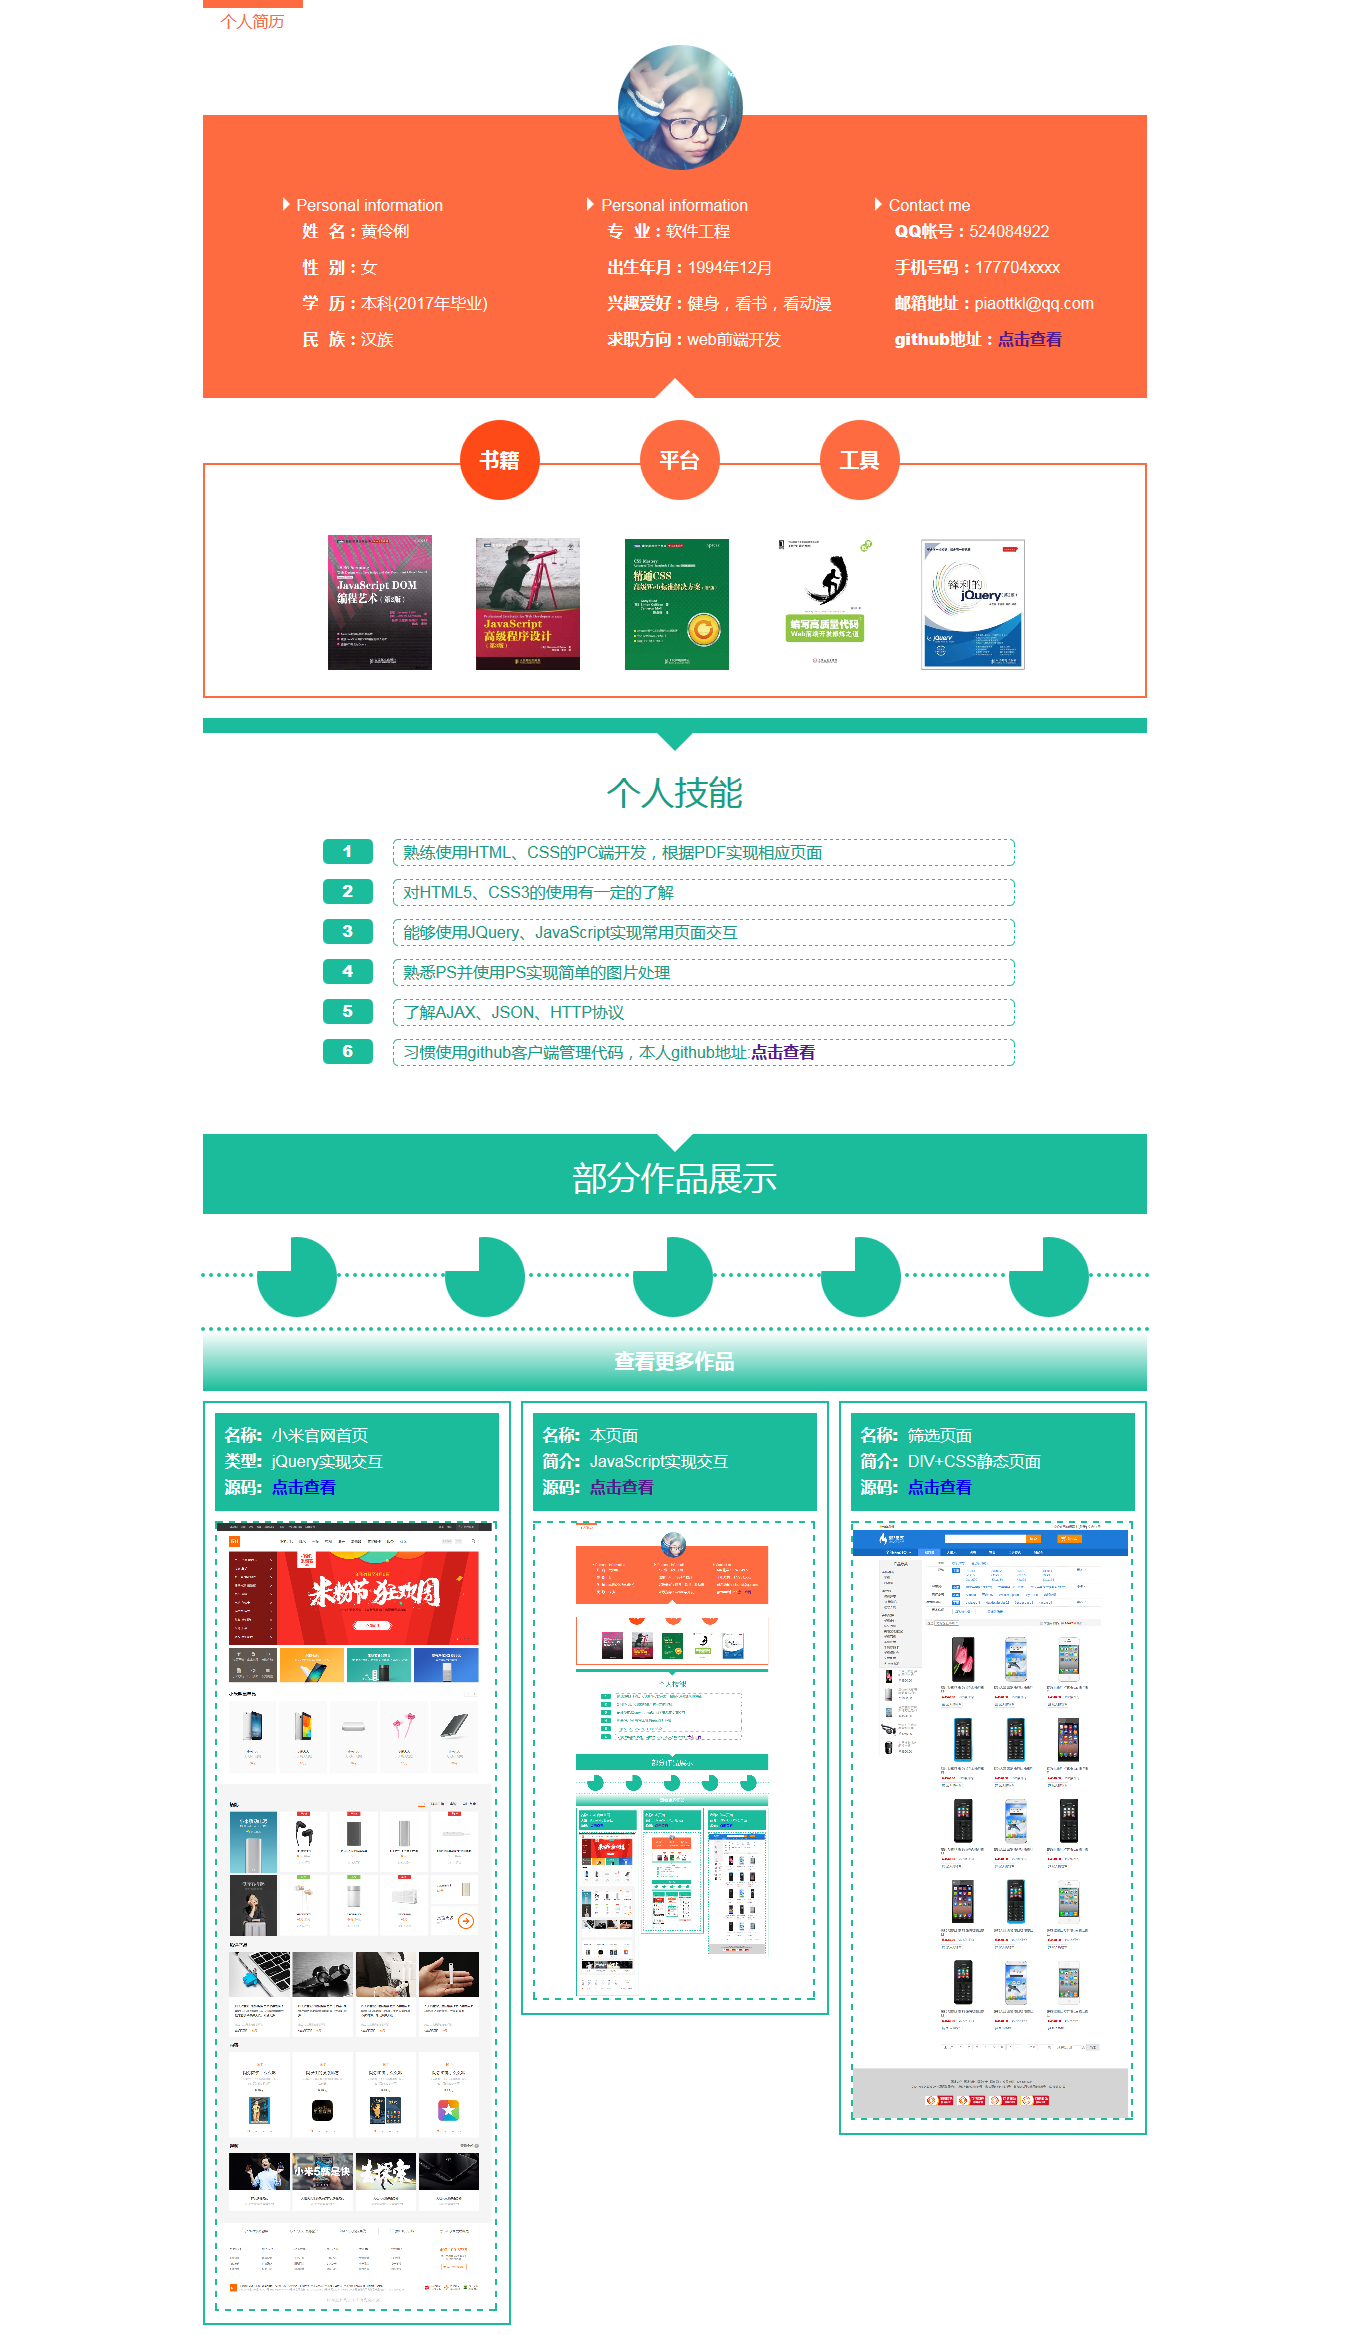
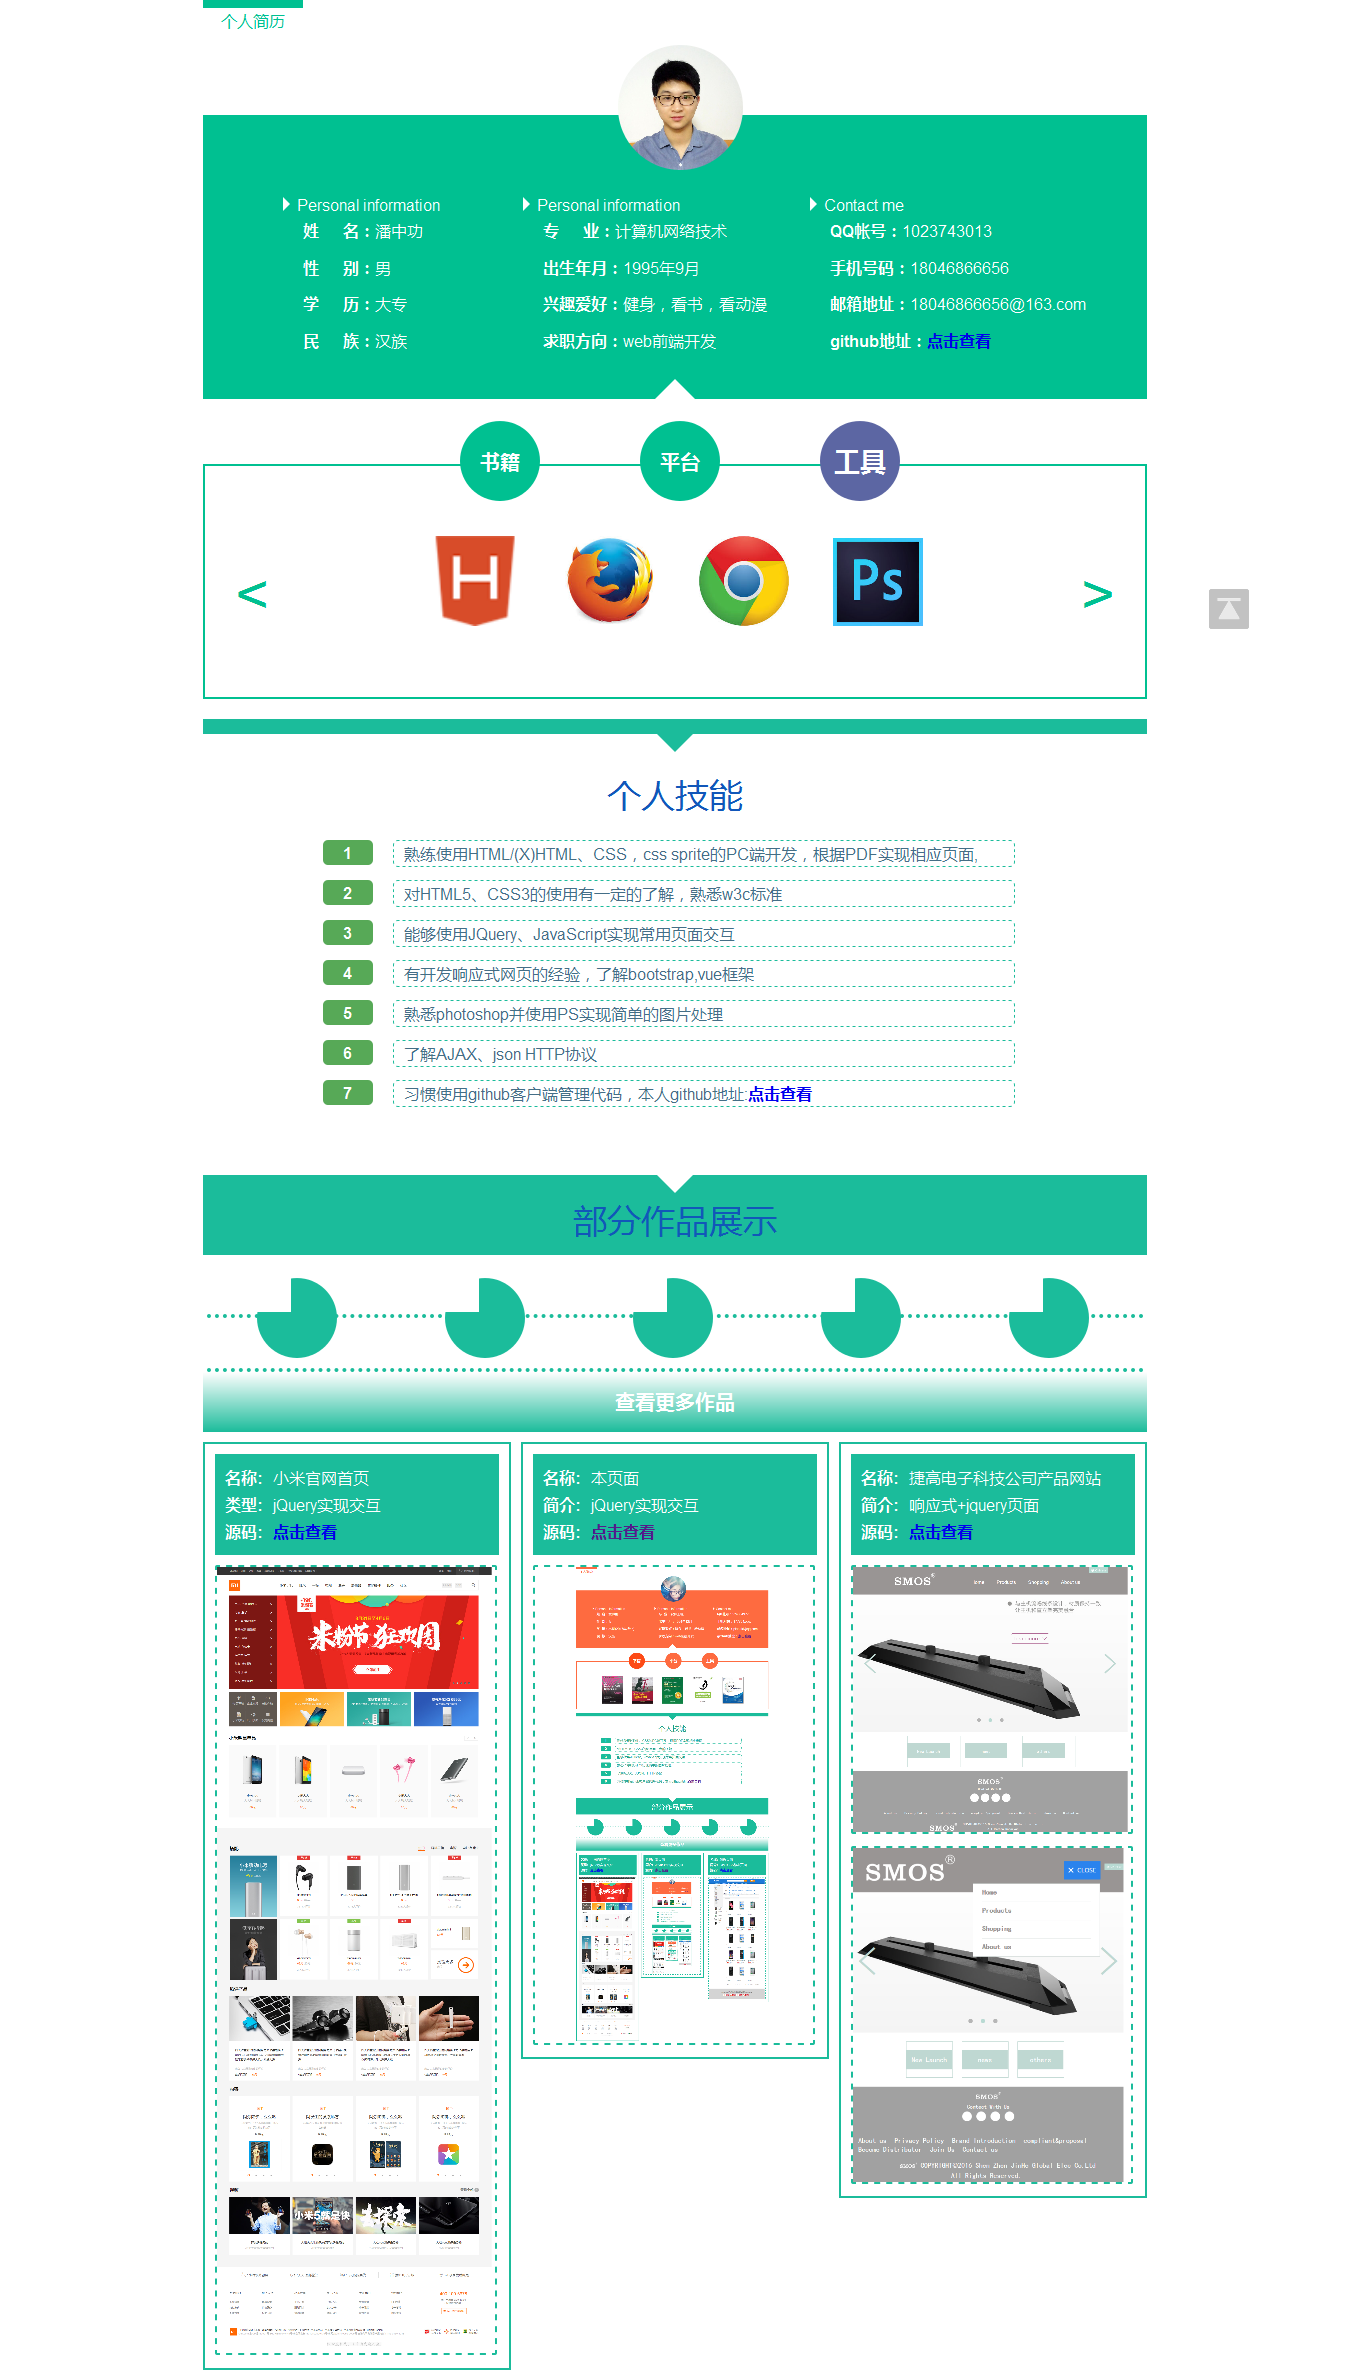
a
a

Changed region(s): [[0.1245, 0.0, 0.8718, 1.0], [0.8718, 0.2467, 0.934, 0.2775], [0.7161, 0.37, 0.7472, 0.4317]]

diff --git a/resume.html b/resume.html
@@ -152,7 +152,7 @@
           <li><i></i><b>类型:</b>jQuery实现交互</li>
           <li><i></i><b>源码:</b><a href="https://github.com/chenlunnp/xiaomi">点击查看</a></li>
         </ul>
-        <a href="http://htmlpreview.github.io/?https://github.com/chenlunnp/xiaomi/blob/master/index.html" target="_blank"><img src="images/mi.png"></a>
+        <a href="http://htmlpreview.github.io/?https://github.com/chenlunnp/xiaomi/blob/master/index.html" target="_blank"><img src="images/xiaomi.png"></a>
       </div>
       <div class="show_box">
         <ul>
@@ -162,15 +162,17 @@
         </ul>
         <a href="#" target="_blank"><img src="images/me.png"></a>
       </div>
+      
       <div class="show_box">
         <ul>
           <li><i></i><b>名称:</b>捷高电子科技公司产品网站</li>
           <li><i></i><b>简介:</b>响应式+jquery页面</li>
           <li><i></i><b>源码:</b><a href="https://github.com/chenlunnp/hey/blob/master/shouye/index.html" target="_blank">点击查看</a></li>
         </ul>
-        <a href="http://htmlpreview.github.io/?https://github.com/chenlunnp/hey/blob/master/shouye/index.html" target="_blank"><img src="images/smos2.png">
-        <img src="images/smos3.png"></a>
+        <a href="http://htmlpreview.github.io/?https://github.com/chenlunnp/hey/blob/master/shouye/index.html" target="_blank">
+        <img src="images/jiegao.png"></a>
       </div>
+      
     </div>
     <!-- show_content is over -->
   </div>
